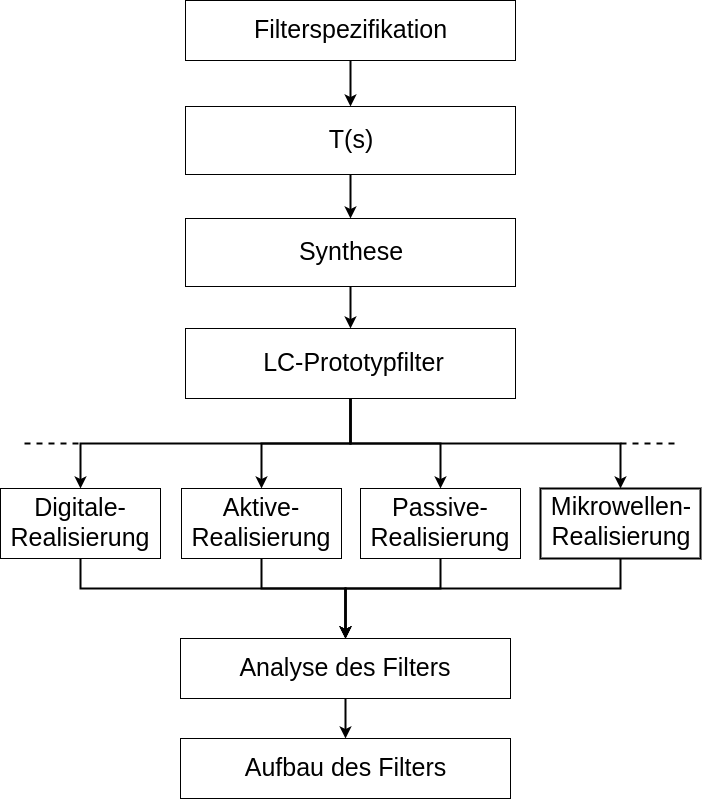
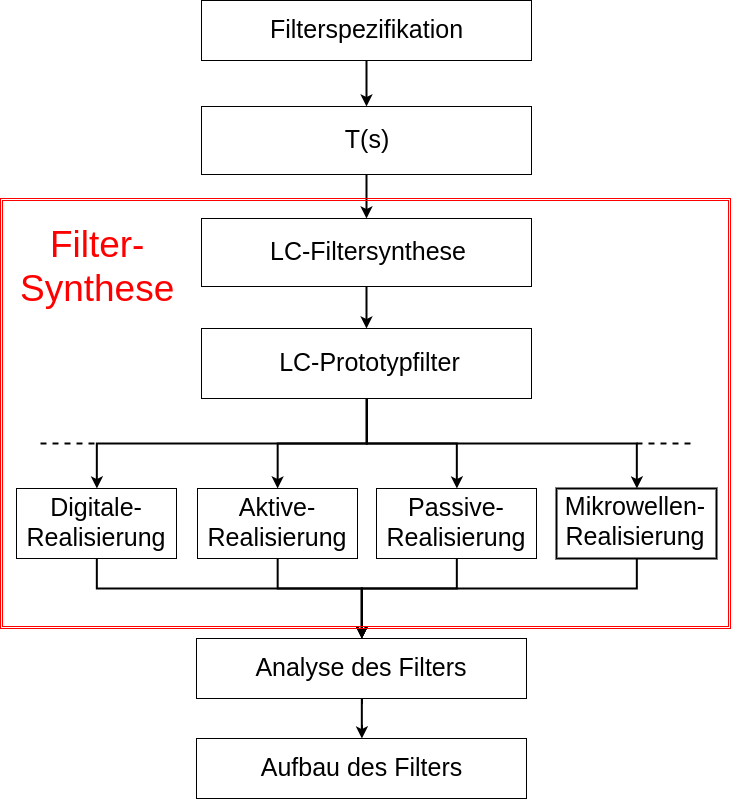
eat shit

diff --git a/sections/theorie.tex b/sections/theorie.tex
@@ -1,50 +1,48 @@
 \section{Theorie}
 
+Um den Leser den Einstieg in die Thematik zu erleichtern, wird zuerst einmal aufgezeigt, um was es sich bei einem Stubfilter genau handelt. Im Anschluss wird das typische Vorgehen einer Filterdimensionierung beschrieben, mit welchem ein Stubfilter realisiert werden kann.
+
 \subsection{Stubfilter}
 
-LC-Filter können in einem weiten Frequenzbereich eingesetzt werden. Jedoch wird bei konzentrierten Elementen zu höheren Frequenzen hin der Einfluss der parasitären Eigenschaften immer deutlicher, so dass hohe Anaforderungen an die Bauteilgüte gestellt werden müssen. Im GHZ-Bereich wird es daher zunehmend attraktiv, statt konzentrierten Kapazitäten und Induktivitäten verteilte Strukturen in Form von Leitungen zu verwenden.Es handelt sich dabei um sogenannte Leitungsfilter.
+LC-Filter können in einem weiten Frequenzbereich eingesetzt werden. Jedoch wird bei konzentrierten Elementen zu höheren Frequenzen hin der Einfluss der parasitären Eigenschaften immer deutlicher, so dass hohe Anaforderungen an die Bauteilgüte gestellt werden müssen. Im GHZ-Bereich wird es daher zunehmend attraktiv, statt konzentrierten Kapazitäten und Induktivitäten verteilte Strukturen in Form von Leitungen zu verwenden. Man spricht dann von sogenannten Leitungsfilter.
 %Quelle direktes Zitat: 
 %https://books.google.ch/books?id=MTVQAgAAQBAJ&pg=PA203&lpg=PA203&dq=leitungsfilter+hochfrequenztechnik&source=bl&ots=Ljf0GRJkZt&sig=n-0G9H5VZ9iuPc2qepAATnjA47M&hl=de&sa=X&ved=0ahUKEwj38u-T79DUAhUSL1AKHUsyDNMQ6AEINTAB#v=onepage&q=leitungsfilter%20hochfrequenztechnik&f=false%
 
 Es gibt verschiedene Arten um Leitungsfilter zu realisieren. Eine Möglichkeit der Realisierung ist das Stubfilter. Dieses Filter verwendet gleichlange kurzgeschlossenen Leitungen (TLSC) und leerlaufende Leitungen(TLOC), die nur an einem Ende verbunden werden. Das andere Ende wird entweder kurzgeschlossen oder eben offen gelassen. Bei diesen Leitungen handelt es sich um sogennante Stubs(Stichleitungen), die sich bei hohen Frequenzen wie reaktive Elemente (L,C) verhalten und somit die Realisierung eines Mikrowellenfilter ermöglichen.
-Damit ein Ingenieur in der Lage ist ein Stubfilter korrekt zu dimensionieren, muss er zuerst das allgemeine Vorgehen bei einer Filterdimensionierung verstehen. Dieses Vorgehen ist unabhängig vom zu realisierenden Filter und wird im folgenden Kapitel näher beschrieben.
- 
-%Der grosse Vorteil von Stubfiltern ist, das eine geschlossene Theorie zur Filtersynthese existiert. Um diese Theorie verstehen zu können wird vorerst die 
+%Der grosse Vorteil von Stubfiltern ist, das eine geschlossene Theorie zur Filtersynthese existiert. 
 
 \newpage
 
 
 \subsection{Ablauf Filterdimensionierung}
 
-Der Entwurfsprozess jedes Filters (Abb.\ref{fig:Ablauf_Filterdimensionierung}) beginnt mit der  Filterspezifikation, welche mathematisch mit einer Funktion im Prototypbereich T(s) beschrieben wird. Aus dieser Funktion kann mit Hilfe einer Filtersynthese eine realisierbare Filterstruktur gefunden werden. Dabei ist zu beachten, dass  physikalische Randbedingungen einbezogen werden müssen, die nicht beliebig steile und beliebig verlustfreie Filtercharakteristiken erlauben.
+Bei der Filterdimensionierung wird unabhängig vom Filtertyp meistens gleich vorgegangen. Deshalb wird zuerst der allgmeine Fall der Filterdimensionierung betrachtet und dann speziell auf die Filterdimensionierung eines Stubfilters eingegangen.
 
-Die Filtersynthesen unterschiedlicher Filter-Realisierungen haben gemeinsam, dass sie alle auf der klassischen LC-Filtersynthese basieren. Nach der LC-Filtersynthese liegt ein LC-Prototypfilter vor, welches mithilfe von unterschiedlichen Transformationen in einen andere Filter-Typ überführt werden kann. Bekannte Transformationen sind z.B die billineare, impulsinvariante oder die Kuroda-Transformation.
+\paragraph{Allgemeine Filterdimensionierung}
+
+Der Entwurfsprozess jedes Filters (Abb.\ref{fig:Ablauf_Filterdimensionierung_Allgemein}) beginnt mit der Filterspezifikation, welche mathematisch mit einer Funktion im Prototypbereich T(s) beschrieben wird. Aus dieser Funktion kann mit Hilfe einer Filtersynthese (rot) eine realisierbare Filterstruktur gefunden werden. Dabei ist zu beachten, dass  physikalische Randbedingungen einbezogen werden müssen, die nicht beliebig steile und beliebig verlustfreie Filtercharakteristiken erlauben.
+
+Die Filtersynthesen unterschiedlicher Realisierungen haben gemeinsam, dass sie alle auf der klassischen LC-Filtersynthese basieren. Nach der LC-Filtersynthese liegt ein LC-Prototypfilter vor. Dieses LC-Prototypfilter wird bei der anschliessenden Filter-Realisierung mithilfe von unterschiedlichen Transformationen in den gewünschten Filter-Typ überführt(falls nötig). Für Elektroingenieure bekannte Transformationen sind z.B die billineare und die impulsinvariante Transformation, welche zur Überführung von einem LC-Filter in ein digitales Filter verwendet werden. Nach der Transformation ist die Filtersynthese abgeschlossen. Zuletzt wird das Filter aufgebaut wenn bei der Analyse alle Spezifikationen eingehalten wurden.
 
 \begin{figure}[h!]
 \centering
  	\includegraphics[width=0.5\textwidth]{Ablauf_Filterdimensionierung_Allgemein.png}
  	\caption{Ablauf Filterdimensionierung}
- 	\label{fig:Ablauf_Filterdimensionierung}
+ 	\label{fig:Ablauf_Filterdimensionierung_Allgemein}
 \end{figure}
-
-
 
 %Liegen keine speziellen Anforderungen an das Filter vor, so können Standardfilter(Butterworth, Chebyshev, Bessel und Cauer)verwendet werden. Die Reaktanzwerte, welche für die Beschreibung der Übertragungsfunktion des LC-Prototypfilters notwendig sind, sind aus Tabellen zu entnehmen. Werden Spezielle Anforderungen an das Filter gestellt, so eignen sich die Standardfilter nicht und es muss eine LC-Filtersynthese durchgeführt werden.
 
+\paragraph{Stubfilter-Dimensionierung}
 
-\subsection{Ablauf Stubfilterdimensionierung}
+In Abb. \ref{fig:Ablauf_Filterdimensionierung} ist der Ablauf dargestellt , welcher bei der Dimensionierung eines Stubfilters befolgt werden muss. Wie man sehen kann 
+
+%Ausgangslage für jede Filterdimensionierung ist die Filterspezifikation, welche im Frequenz- oder Zeitbereich vorliegt. Diese Filterspezifikation wird anschliessen mathematisch mit einer Funktion in der s-Ebene (Prototypbereich) beschrieben. Mit einem Synthesetool kann aus der Funktion in der s-Ebene ein Prototypfilter mit konzentrierten Elementen(R,L,C) gefunden werden. Dabei gibt das Synthesetool die Topologie, sowie die Bauteilwerte aus. Liegt kein Synthesetool vor, so müssen Standardfilter (Butterworth, Chebyshev, Bessel und Cauer) verwendet werden, deren Topologie und Bauteilwerte normiert aus einer Tabelle zu entnehmen sind. Bei sehr speziellen Anforderungen an das Filter reichen die Standardfilter aber meist nicht aus um die Filterspezifikationen einzuhalten.
+
+%Nach der Synthese liegt nun ein Prototypfilter mit konzentrierten Elementen vor, gesucht ist aber ein Stubfilter, welches aus verteilten Elementen (Leitungen) besteht. Hier kommt die Frequenztransformation von Richards zum Zuge. Richards konnte zeigen, dass sich gleichlange, verlustlose Leitungen (TLSC,TLOC) gleich wie konzentrierte Elemente verhalten, wenn die folgende Transformation für die laplace variable verwendet wird.
 
 
 
-%In diesem Kapitel wird erläutert, wie bei der Dimensionierung eines Stubfilters  vorgegangen wird. Der typische Ablauf zur Dimensionierung eines Stubfiltern ist in Abb. \ref{fig:Ablauf_Filterdimensionierung dargestellt. Dieser Ablauf unterscheidet sich nicht gross vom Ablauf bei der Dimensionierung eines digitalen oder  Ablaufwird auch für die Realisierung von aktiven, passiven und digitalen Filters verwendet. Der einzige Unterschied ist, dass sich die Schritte in Filter-Realisierung(blau umrandet) unterscheiden.
-
-Ausgangslage für jede Filterdimensionierung ist die Filterspezifikation, welche im Frequenz- oder Zeitbereich vorliegt. Diese Filterspezifikation wird anschliessen mathematisch mit einer Funktion in der s-Ebene (Prototypbereich) beschrieben. Mit einem Synthesetool kann aus der Funktion in der s-Ebene ein Prototypfilter mit konzentrierten Elementen(R,L,C) gefunden werden. Dabei gibt das Synthesetool die Topologie, sowie die Bauteilwerte aus. Liegt kein Synthesetool vor, so müssen Standardfilter (Butterworth, Chebyshev, Bessel und Cauer) verwendet werden, deren Topologie und Bauteilwerte normiert aus einer Tabelle zu entnehmen sind. Bei sehr speziellen Anforderungen an das Filter reichen die Standardfilter aber meist nicht aus um die Filterspezifikationen einzuhalten.
-
-Nach der Synthese liegt nun ein Prototypfilter mit konzentrierten Elementen vor, gesucht ist aber ein Stubfilter, welches aus verteilten Elementen (Leitungen) besteht. Hier kommt die Frequenztransformation von Richards zum Zuge. Richards konnte zeigen, dass sich gleichlange, verlustlose Leitungen (TLSC,TLOC) gleich wie konzentrierte Elemente verhalten, wenn die folgende Transformation für die laplace variable verwendet wird.
-
-s= dhsijdkh
-
-Mit der Frequenztransformation von Richards kann dieses Filter vom Prototypbereich(s-Eben) in den Originalbereich (f-Ebene) transformiert werden. Dadurch werden die konzentrierten Elemente(L,C) in verteilte Elemente (Leitungen) umgewandelt. Dies 
 TLSC = ideale, verlustlose Transmission Line im kurzschluss
 TLOC = ideale, verlustlse Tranmissin Line im Leerlauf
 
@@ -54,7 +52,7 @@ TLOC = ideale, verlustlse Tranmissin Line im Leerlauf
 
 \begin{figure}[h!]
 \centering
- 	\includegraphics[width=0.5\textwidth]{Ablauf_Filterdimensionierung.png}
+ 	\includegraphics[width=0.4\textwidth]{Ablauf_Filterdimensionierung.png}
  	\caption{Ablauf der Stubfilter-Dimensionierung}
  	\label{fig:Ablauf_Filterdimensionierung}
 \end{figure}

diff --git a/sections/einfuehrung.tex b/sections/einfuehrung.tex
@@ -1,24 +1,27 @@
-\section{Einf\"uhrung}
+\section{Einleitung}
 
-In dieser  Arbeit  geht  es um die Entwerfung, Optimierung und Synthetisierung
+In dieser  Arbeit  geht es um die Synthetisierung und Optimierung
 eines Mikrowellenfilters (Stubfilter) in Microstrip-Technologie.
 
-Der Ansatz st\"utzt auf Wissen zur Entwerfung von Reaktanz-Filter. Spezifisch,
-sogenannte  vorberechnete  ``g-Parameter'' werden verwendet, um ein Frequenz--
-und Impedanznormiertes LC-Netzwerk zu entwerfen.
+Ausgangslage für die Synthethisierung des Stubfilter sind voberechnete ``g-Parameter'', welche nach Methoden der klassischen LC-Filtersynthese gefunden werden. Diese ``g-Parameter'' beschreiben ein impedanznormiertes LC-Prototypfilter auf welches zwei verschiedene  Transformationen
+angewendet werden: Die Richard's Transformation und die Kuroda Transformation.
 
-Danach  werden  zwei  verschiedene  Transformationen   auf   das   LC-Netzwerk
-angewendet: Die Richard's Transformation und die Kuroda Transformation.
+Mit der Richard's Transformation können die konzentrierten Elemente (L,C) des Prototypfilter mit verteilte Elementen (Stubs) ersetzt werden. Nach dieser Transformation spricht man von einem Stubfilter. Das Problem ist aber, dass sich dieses Filter nicht realisieren lässt, weil sich alle Stubs am gleichen Ort befinden. 
 
-Die Spulen und Kondensatoren vom  LC-Filter  k\"onnen  mithilfe  der Richard's
-Transformation ganz durch gleich-lange Stubs ersetzt werden (Leitungsst\"ucke,
-die  genau $\frac{\lambda}{4}$ lang sind und entweder am Ende  kurzgeschlossen
-oder offen sind). Geometrisch befinden sich die  Stubs  aber  alle im gleichen
-Ort und das Filter kann noch nicht realisiert werden.
+Deshalb wird im Anschluss die Kuroda Transformation verwendet,  um eine physikalische Distanz zwischen
+den  Stubs  zu  schaffen, damit das Filter auch in Realit\"at umgesetzt  werden  kann. Obwohl für die Kuroda Transformation sogenannte ``Unit Elements'' eingebaut werden müssen, ändert sich die Filterordnung nicht.
 
-Die Kuroda Transformation wird  verwendet,  um  physikalische Distanz zwischen
-den  Stubs  zu  schaffen, damit es auch in Realit\"at umgesetzt  werden  kann.
-Dabei  werden  sogenannte  ``Unit Elements''  eingebaut, 
+Im Anschluss an die Filtersynthese wird der Sperrbereich des Filters optimiert, was eine Erhöhung der Filterordnung um die Anzahl eingebauter ``Unit Elements'' bewirkt. Grund dafür ist blablabla ....Erkenntnisse bla
+
+\newpage
+
+%Die Spulen und Kondensatoren vom  LC-Filter  k\"onnen  mithilfe  der Richard's
+%Transformation ganz durch gleich-lange Stubs ersetzt werden (Leitungsst\"ucke,
+%die  genau $\frac{\lambda}{4}$ lang sind und entweder am Ende  kurzgeschlossen
+%oder offen sind). Geometrisch befinden sich die  Stubs  aber  alle im gleichen
+%Ort und das Filter kann noch nicht realisiert werden.
+
+
 
 
 %TODO Richard Transform -> How L/C get transformed to TLSC and TLOC, and how TLIN cannot be transformed

diff --git a/preamble/packages.tex b/preamble/packages.tex
@@ -5,6 +5,7 @@
 \usepackage{changepage}    % Change width of abstract text
 \usepackage{float}
 \usepackage[ngerman]{babel}
+\usepackage[utf8]{inputenc}
 \usepackage{csquotes}
 \usepackage[backend=bibtex,bibstyle=numeric,sorting=nyt]{biblatex}
 \usepackage[toc,page]{appendix}
